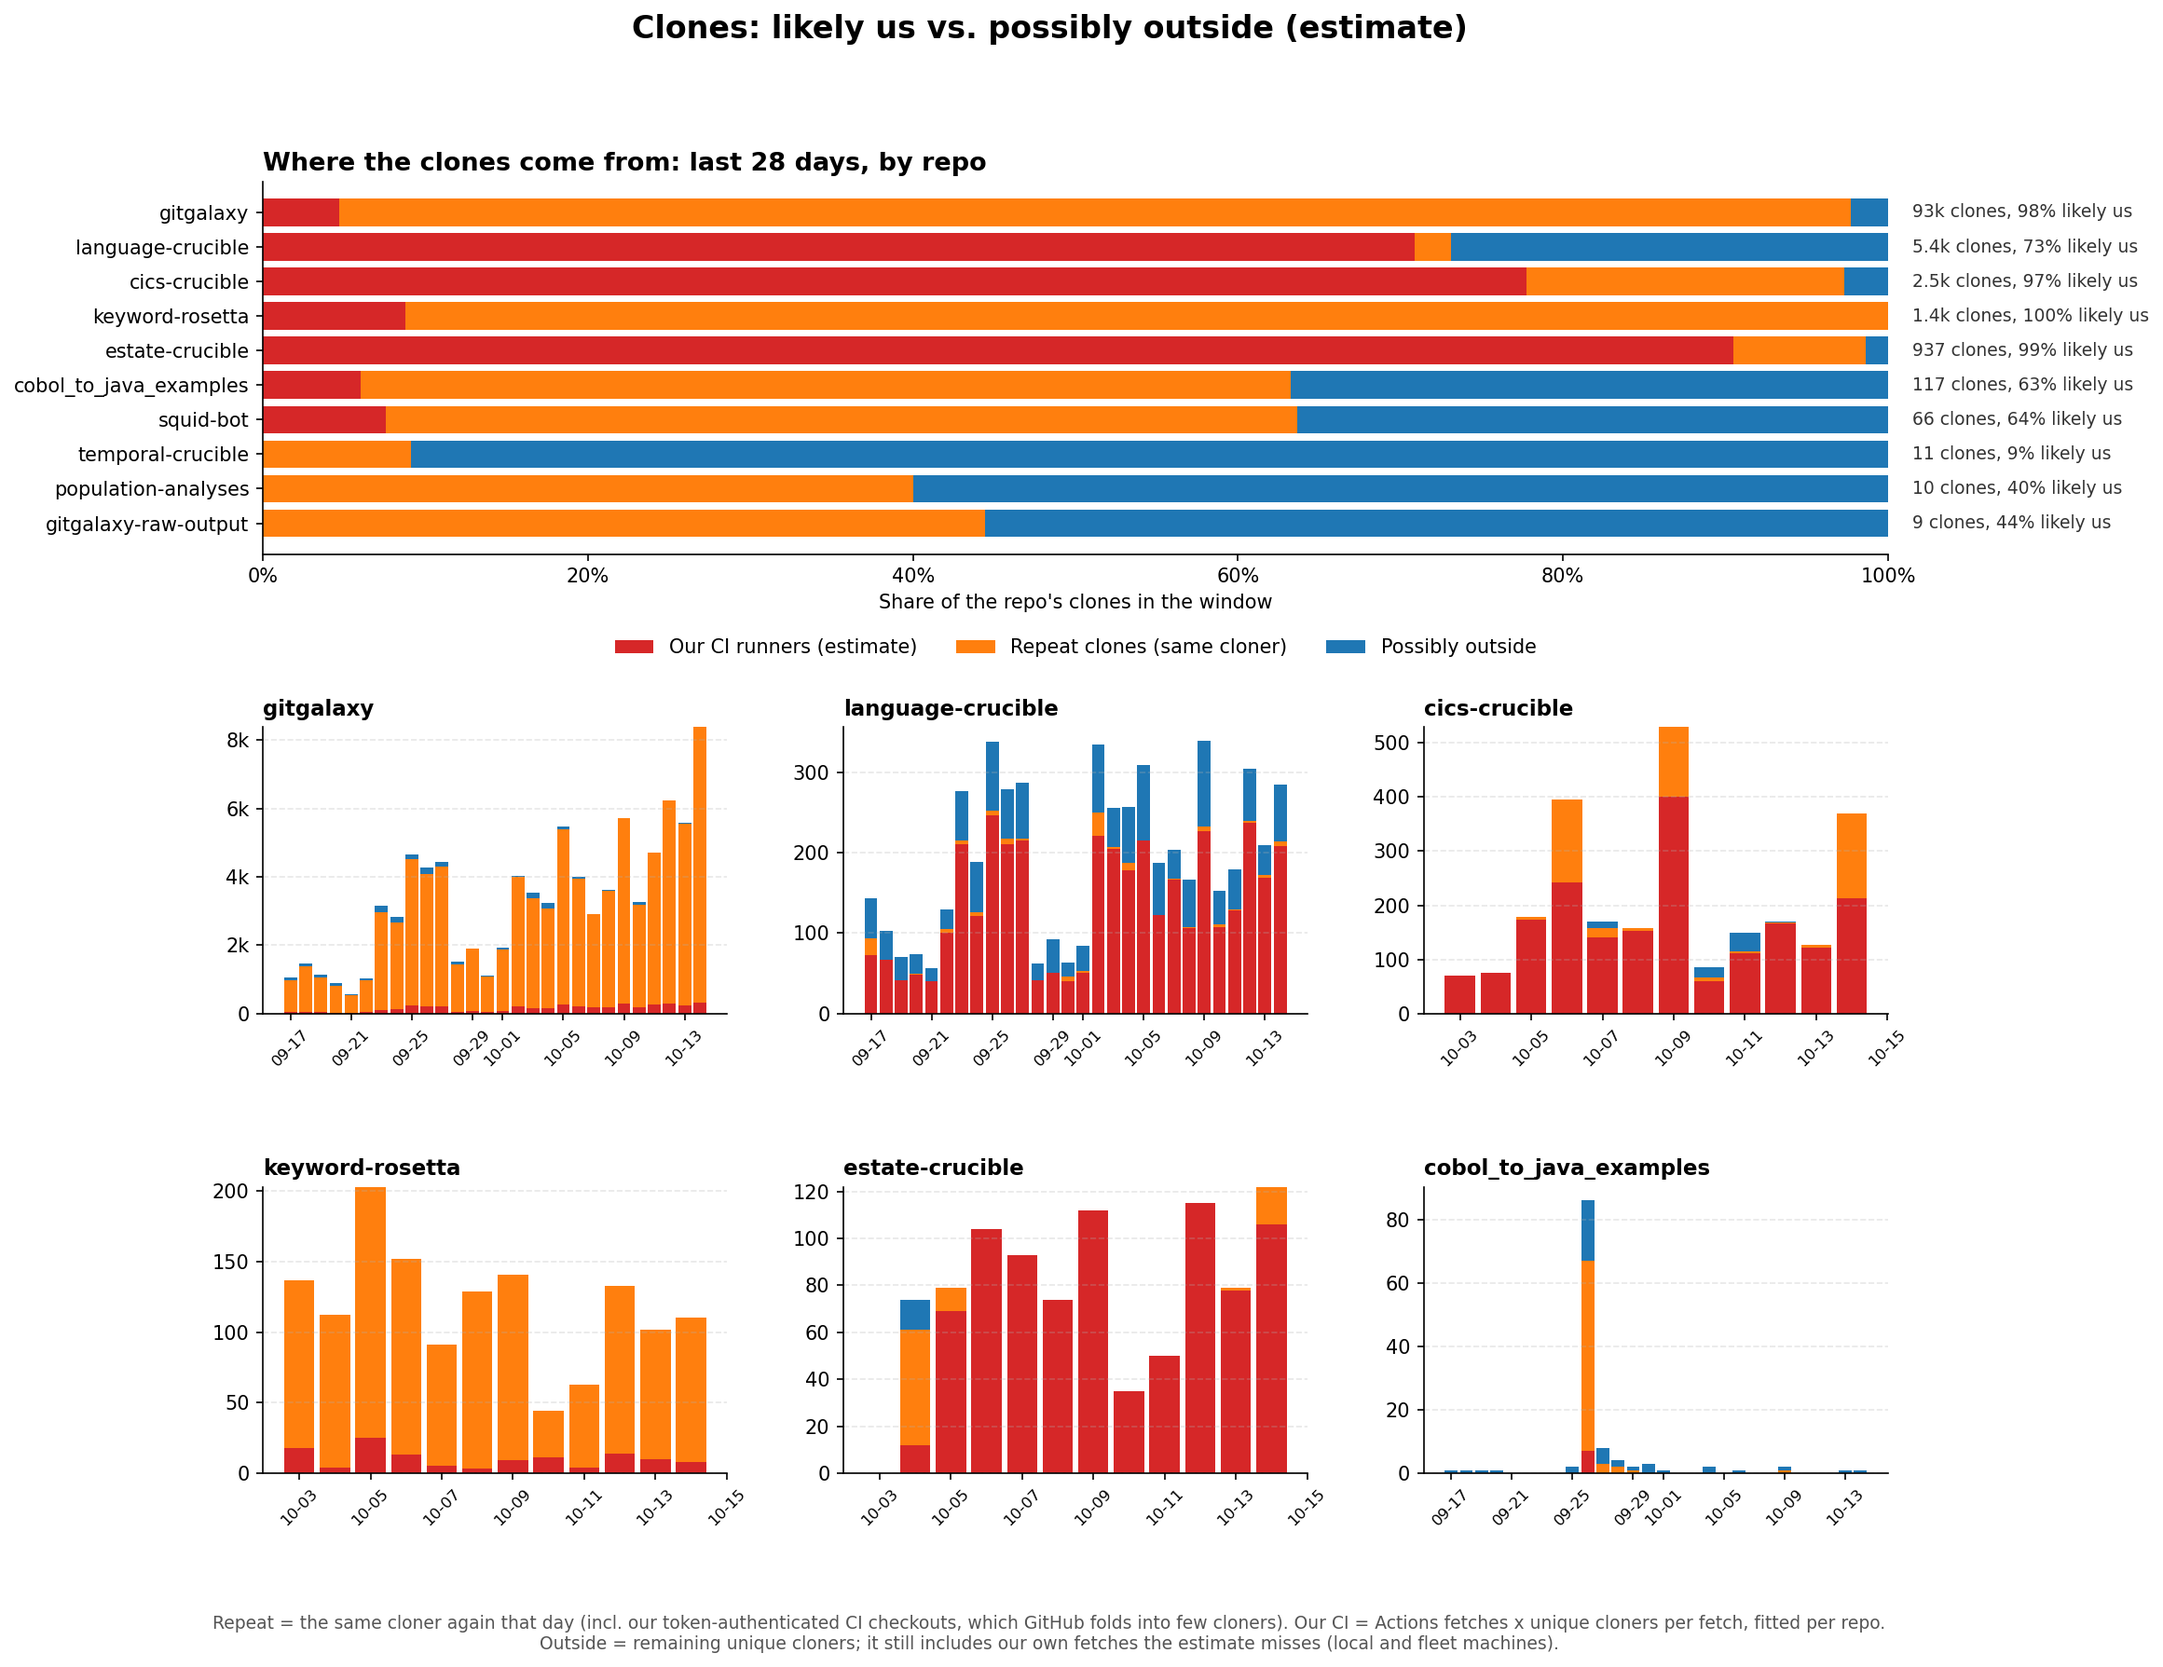
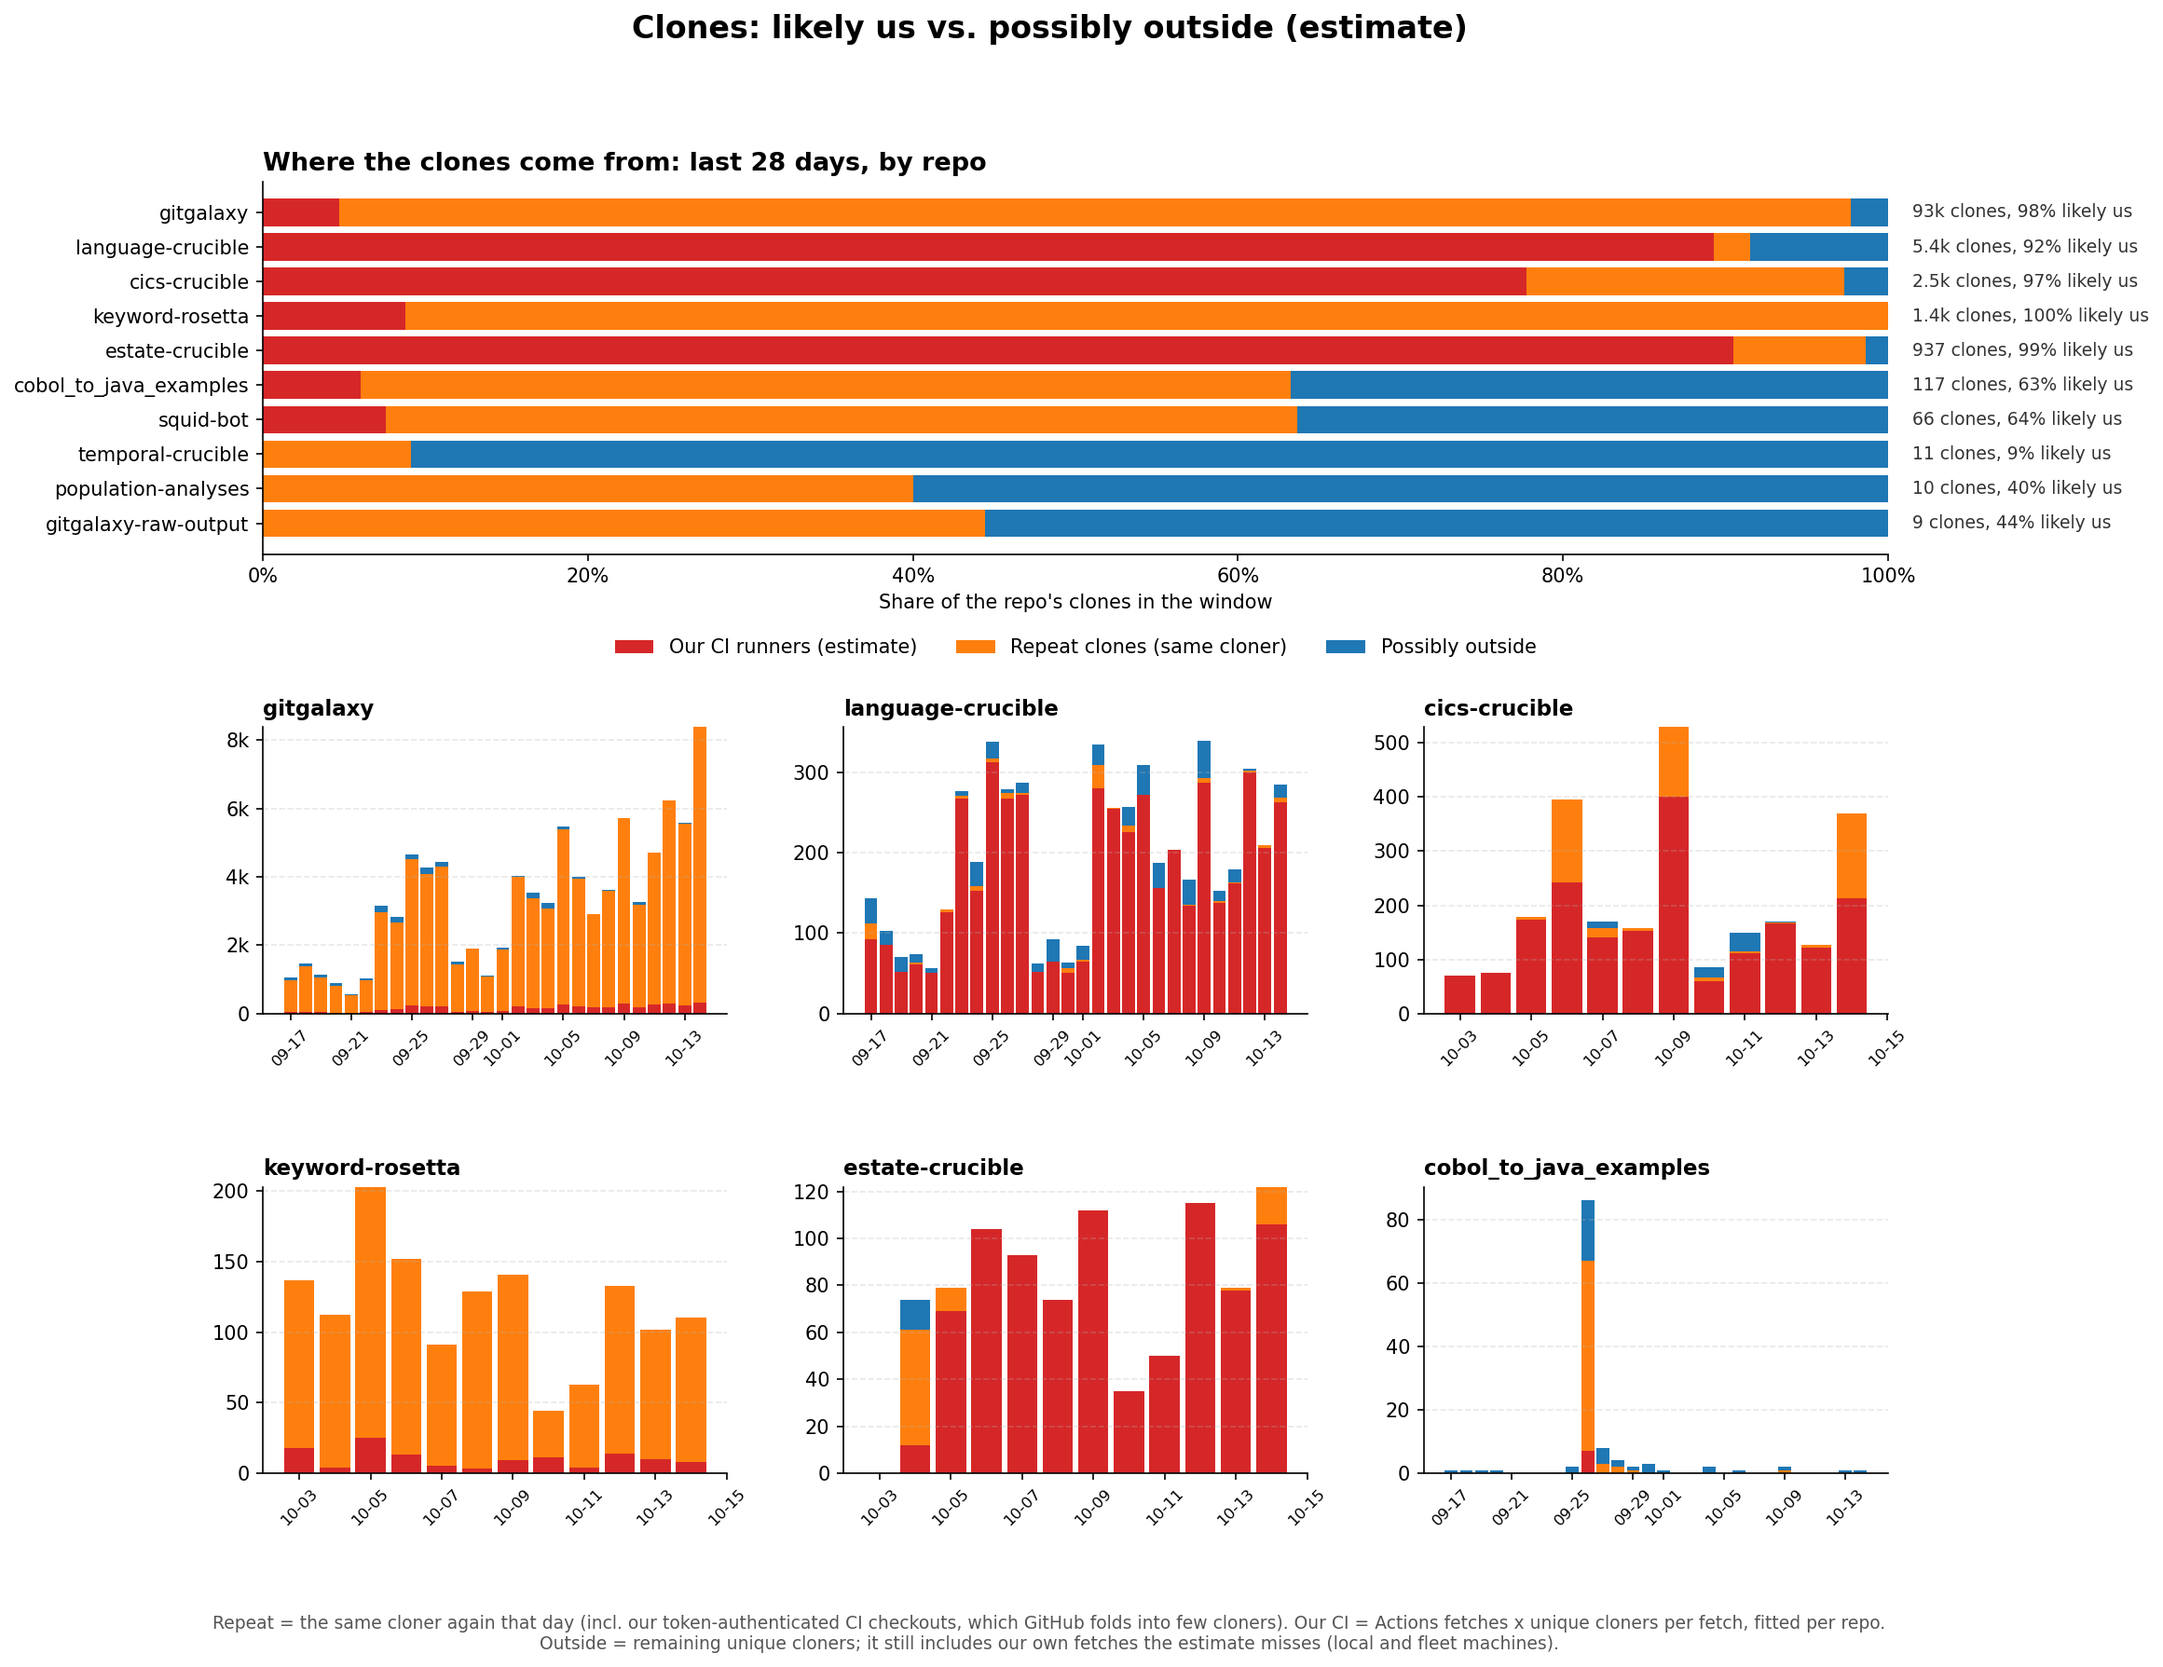
Let the fitted CI rate exceed 1 (cap 2) when our fetch count is low
language-crucible fits 1.27 unique cloners per counted CI fetch (static count misses
multi-job and ci_retry re-clones); capping at 1 left ~1k of our own clones as
'outside' (1.5k -> 461, i.e. its ~16/day baseline). A fit also needs >=100 CI
fetches, so cobol_to_java_examples (7 fetches) keeps the default 1.

Changed region(s): [[0.4343, 0.4612, 0.5894, 0.5534], [0.6514, 0.123, 0.8065, 0.1537], [0.4033, 0.5534, 0.4343, 0.5841]]

diff --git a/generate_graph.py b/generate_graph.py
@@ -928,22 +928,24 @@ def split_clone_sources(total, unique, own_ci_est, unique_rate=1.0):
     own_ci = min(max(0, round(own_ci_est * unique_rate)), unique)
     return {'own_ci': own_ci, 'repeat': repeat, 'outside': unique - own_ci}
 
-def ci_unique_rate(days, min_days=20):
+def ci_unique_rate(days, min_days=20, min_ci=100, max_rate=2.0):
     """
     Unique cloners added per CI fetch for one repo: the slope of a least-squares
-    fit of daily unique_cloners on daily own_ci_est, clipped to 0..1. gitgalaxy
-    (actions/checkout, token-authenticated) fits ~0.08: about 12 CI checkouts
-    per unique cloner. Anonymous `git clone` of a crucible fits ~1. Below
-    min_days of CI-covered history, or when CI never varies, the fit is noise,
-    so this returns 1: every CI fetch assumed to be a fresh cloner, which can
-    only overstate our share.
+    fit of daily unique_cloners on daily own_ci_est, clipped to 0..max_rate.
+    gitgalaxy (actions/checkout, token-authenticated) fits ~0.08: about 12 CI
+    checkouts per unique cloner. Anonymous `git clone` of a crucible fits ~1,
+    and above 1 when our static count misses fetches (multi-job workflows,
+    ci_retry re-clones): language-crucible fits ~1.27, and capping it at 1
+    left ~1k of our own clones in "outside". Below min_days of CI-covered
+    history or min_ci total CI fetches, or when CI never varies, the fit is
+    noise and this returns 1.
     """
     days = days[['own_ci_est', 'unique_cloners']].astype(float)
-    if len(days) < min_days or days['own_ci_est'].std() == 0:
+    if len(days) < min_days or days['own_ci_est'].sum() < min_ci or days['own_ci_est'].std() == 0:
         return 1.0
     x, y = days['own_ci_est'], days['unique_cloners']
     slope = ((x - x.mean()) * (y - y.mean())).sum() / ((x - x.mean()) ** 2).sum()
-    return float(min(max(slope, 0.0), 1.0))
+    return float(min(max(slope, 0.0), max_rate))
 
 def _clone_split_frame(db_path: str):
     """

diff --git a/tests/test_smart_labels.py b/tests/test_smart_labels.py
@@ -48,3 +48,13 @@ def test_ci_rate_short_history_falls_back_to_one():
     from generate_graph import ci_unique_rate
     days = pd.DataFrame({'own_ci_est': [1, 5, 9], 'unique_cloners': [1, 1, 1]})
     assert ci_unique_rate(days) == 1.0
+
+
+def test_ci_rate_above_one_when_fetches_undercounted():
+    import pandas as pd
+    from generate_graph import ci_unique_rate
+    ci = pd.Series([50 * (1 + d % 4) for d in range(28)])
+    days = pd.DataFrame({'own_ci_est': ci, 'unique_cloners': 16 + (ci * 1.25).astype(int)})
+    assert abs(ci_unique_rate(days) - 1.25) < 0.02
+    days['unique_cloners'] = ci * 9  # absurd slope is capped
+    assert ci_unique_rate(days) == 2.0
